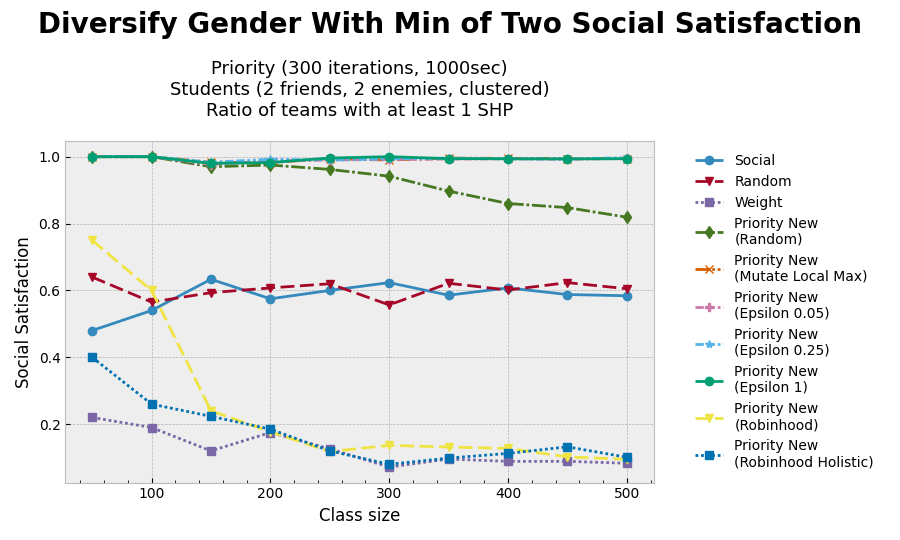
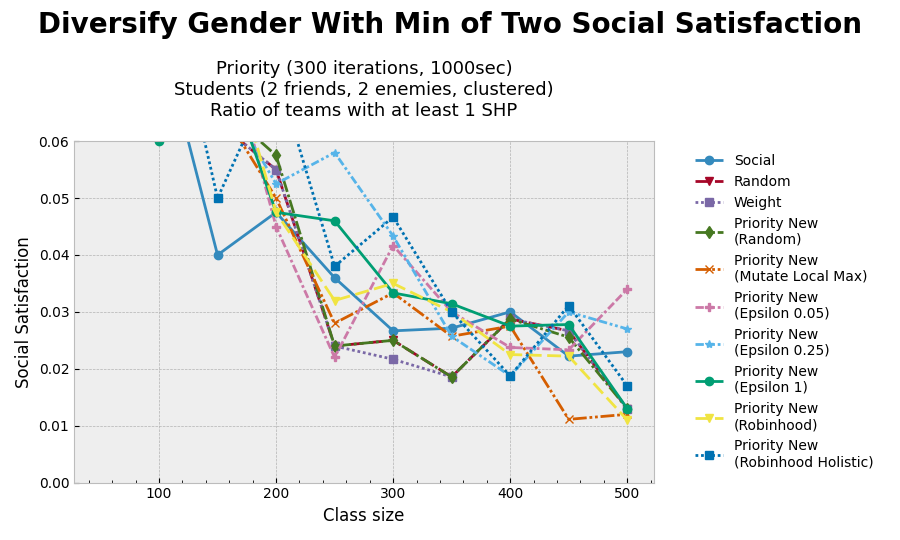
Changes made during meeting

diff --git a/benchmarking/runs/construct_graphs.py b/benchmarking/runs/construct_graphs.py
@@ -9,12 +9,18 @@ from benchmarking.evaluations.graphing.line_graph import line_graph
 from benchmarking.evaluations.graphing.line_graph_metadata import LineGraphMetadata
 from benchmarking.evaluations.interfaces import TeamSetMetric
 from benchmarking.evaluations.metrics.average_gini_index import AverageGiniIndex
-from benchmarking.evaluations.metrics.average_social_satisfied import AverageSocialSatisfaction
+from benchmarking.evaluations.metrics.average_social_satisfied import (
+    AverageSocialSatisfaction,
+)
 from benchmarking.evaluations.metrics.maximum_gini_index import MaximumGiniIndex
 from benchmarking.evaluations.metrics.minimum_gini_index import MinimumGiniIndex
 from benchmarking.evaluations.metrics.priority_satisfaction import PrioritySatisfaction
-from benchmarking.evaluations.metrics.utils.team_calculations import is_happy_team_1shp_friend
-from benchmarking.evaluations.scenarios.diversify_gender_min_2_female import DiversifyGenderMin2Female
+from benchmarking.evaluations.metrics.utils.team_calculations import (
+    is_happy_team_1shp_friend,
+)
+from benchmarking.evaluations.scenarios.diversify_gender_min_2_female import (
+    DiversifyGenderMin2Female,
+)
 from benchmarking.simulation.goal_to_priority import goals_to_priorities
 
 if __name__ == "__main__":
@@ -80,7 +86,9 @@ if __name__ == "__main__":
         for mutation in mutations:
             try:
                 with open(f"{scenario}-{mutation}.json", "r") as f:
-                    json_graph_dicts: List[Dict[str, GraphData]] = jsonpickle.decode(f.read())
+                    json_graph_dicts: List[Dict[str, GraphData]] = jsonpickle.decode(
+                        f.read()
+                    )
             except FileNotFoundError:
                 continue
 
@@ -91,7 +99,9 @@ if __name__ == "__main__":
                         if mutation == "baseline":
                             graph_data.legend_subtitle = "(Random)"
                         else:
-                            graph_data.legend_subtitle = f'({mutation.replace("-", " ").title()})'
+                            graph_data.legend_subtitle = (
+                                f'({mutation.replace("-", " ").title()})'
+                            )
 
             for i in range(len(json_graph_dicts)):
                 graph_lists[i].extend(list(json_graph_dicts[i].values()))
@@ -129,7 +139,9 @@ if __name__ == "__main__":
                     title=f"{scenario_title} Average Gini Index",
                     data=list(graph_avg_gini_list),
                     description=graph_descriptions,
-                    y_lim=GraphAxisRange(*metrics["AverageGiniIndex"].theoretical_range),
+                    y_lim=GraphAxisRange(
+                        *metrics["AverageGiniIndex"].theoretical_range
+                    ),
                     x_lim=None,
                     num_minor_ticks=None,
                     save_graph=save_graphs,
@@ -174,22 +186,23 @@ if __name__ == "__main__":
                     title=f"{scenario_title} Satisfied Priorities",
                     data=list(graph_priority_list),
                     description=graph_descriptions,
-                    y_lim=GraphAxisRange(*metrics["PrioritySatisfaction"].theoretical_range),
+                    y_lim=GraphAxisRange(-0.1, 1.1),
                     x_lim=None,
                     num_minor_ticks=None,
                     save_graph=save_graphs,
                 )
             )
 
-        if len(graph_priority_list) != 0:
+        if len(graph_social_list) != 0:
             line_graph(
                 LineGraphMetadata(
                     x_label="Class size",
                     y_label="Social Satisfaction",
                     title=f"{scenario_title} Social Satisfaction",
-                    data=list(graph_priority_list),
-                    description=graph_descriptions+"\nRatio of teams with at least 1 SHP",
-                    y_lim=None,
+                    data=list(graph_social_list),
+                    description=graph_descriptions
+                    + "\nRatio of teams with at least 1 SHP",
+                    y_lim=GraphAxisRange(-0.0, 0.06),
                     x_lim=None,
                     num_minor_ticks=None,
                     save_graph=save_graphs,
